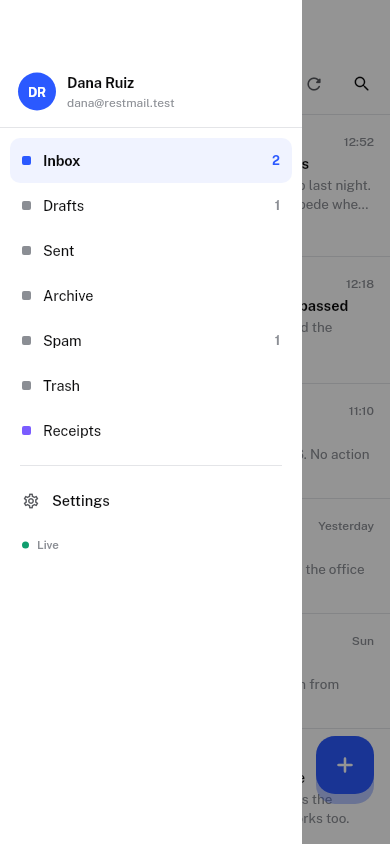
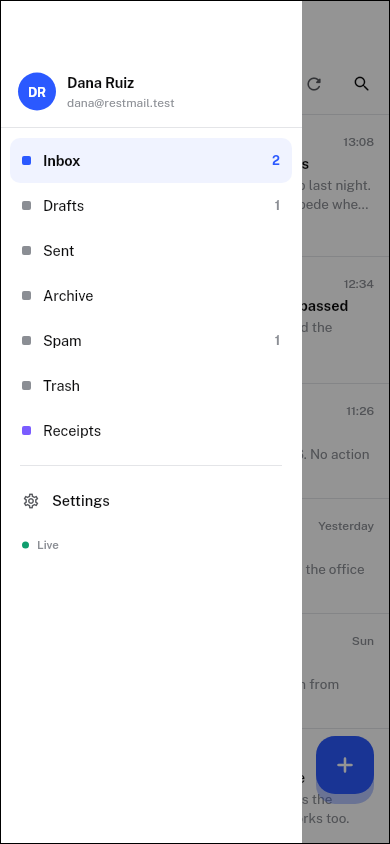
docs: give the screen pictures a 1px black edge
Most of each light screen is white, so on a white page the pictures had no
visible edge. The tour paints the border over the app, so the screen keeps
its size, and the copies in media/ are redrawn with it.

diff --git a/tool/screens/screens_test.dart b/tool/screens/screens_test.dart
@@ -71,7 +71,14 @@ Future<void> _tour(WidgetTester tester, {required bool dark}) async {
   await tester.pumpWidget(
     RepaintBoundary(
       key: _frame,
-      child: RestmailApp(state: state),
+      // A 1px black edge, painted over the app rather than around it so
+      // the screen keeps its size, keeps the mostly-white pictures from
+      // disappearing into a white page.
+      child: DecoratedBox(
+        position: DecorationPosition.foreground,
+        decoration: BoxDecoration(border: Border.all()),
+        child: RestmailApp(state: state),
+      ),
     ),
   );
   await _shot(tester, '01-welcome$suffix');
